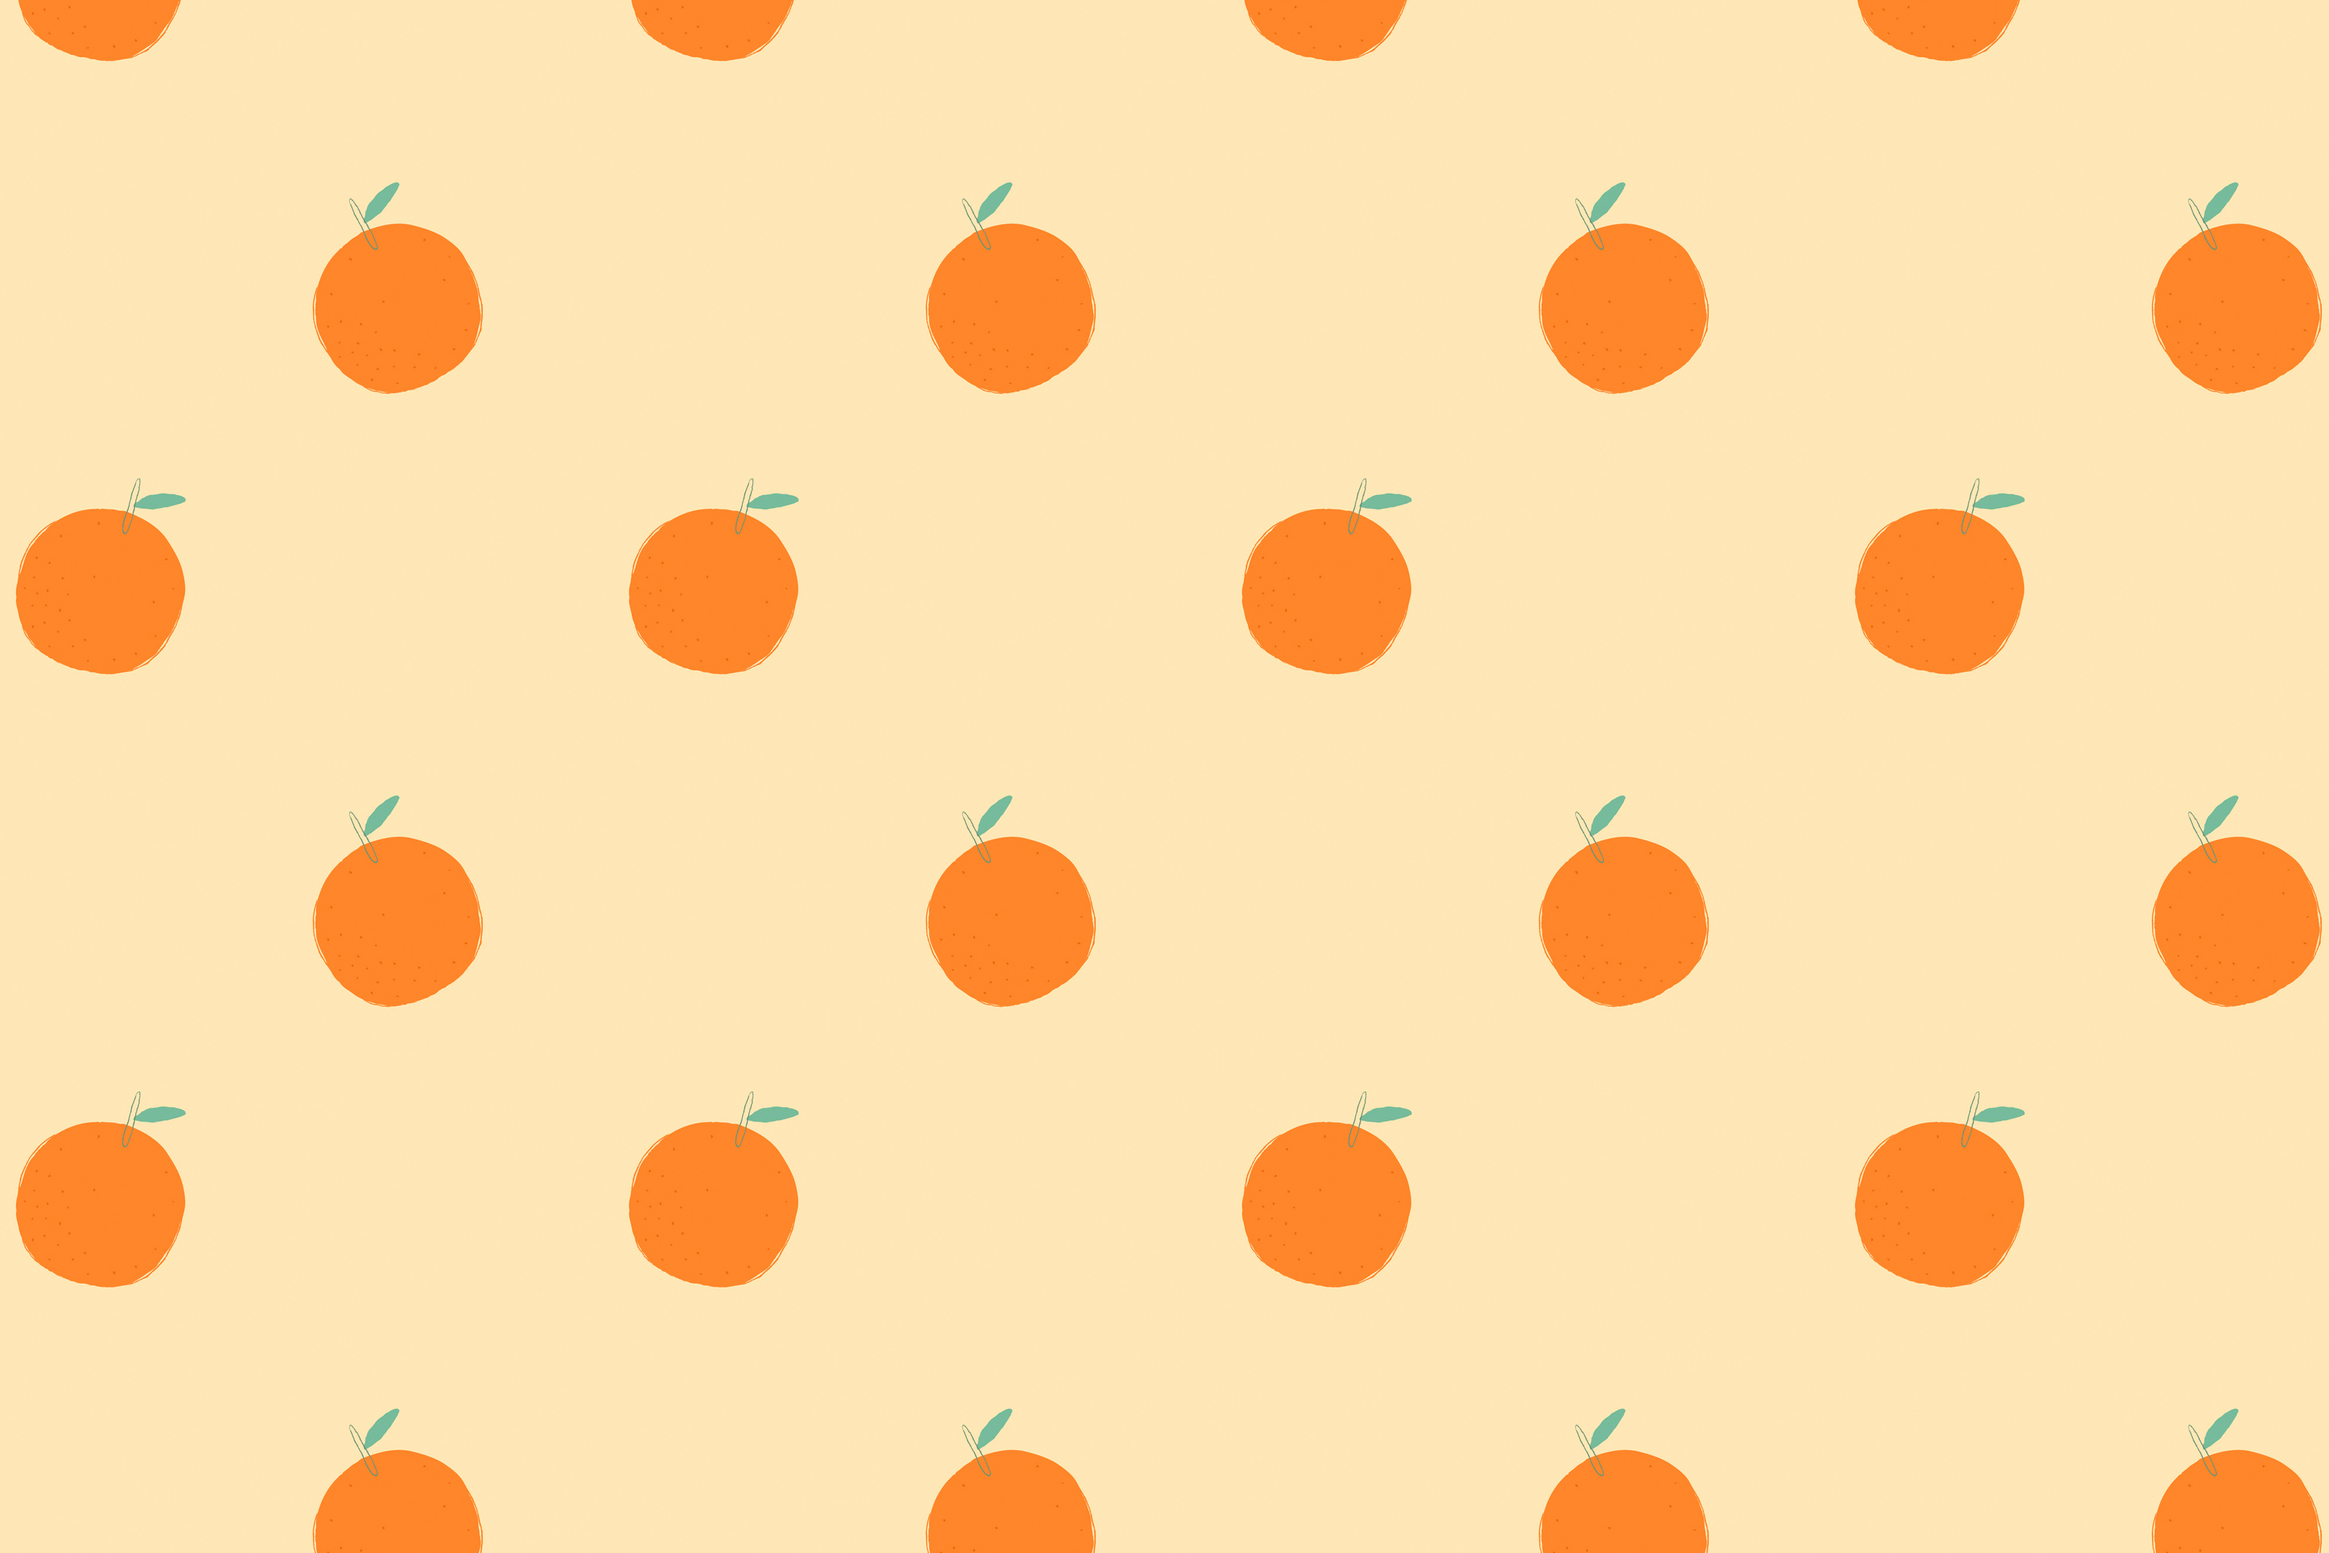
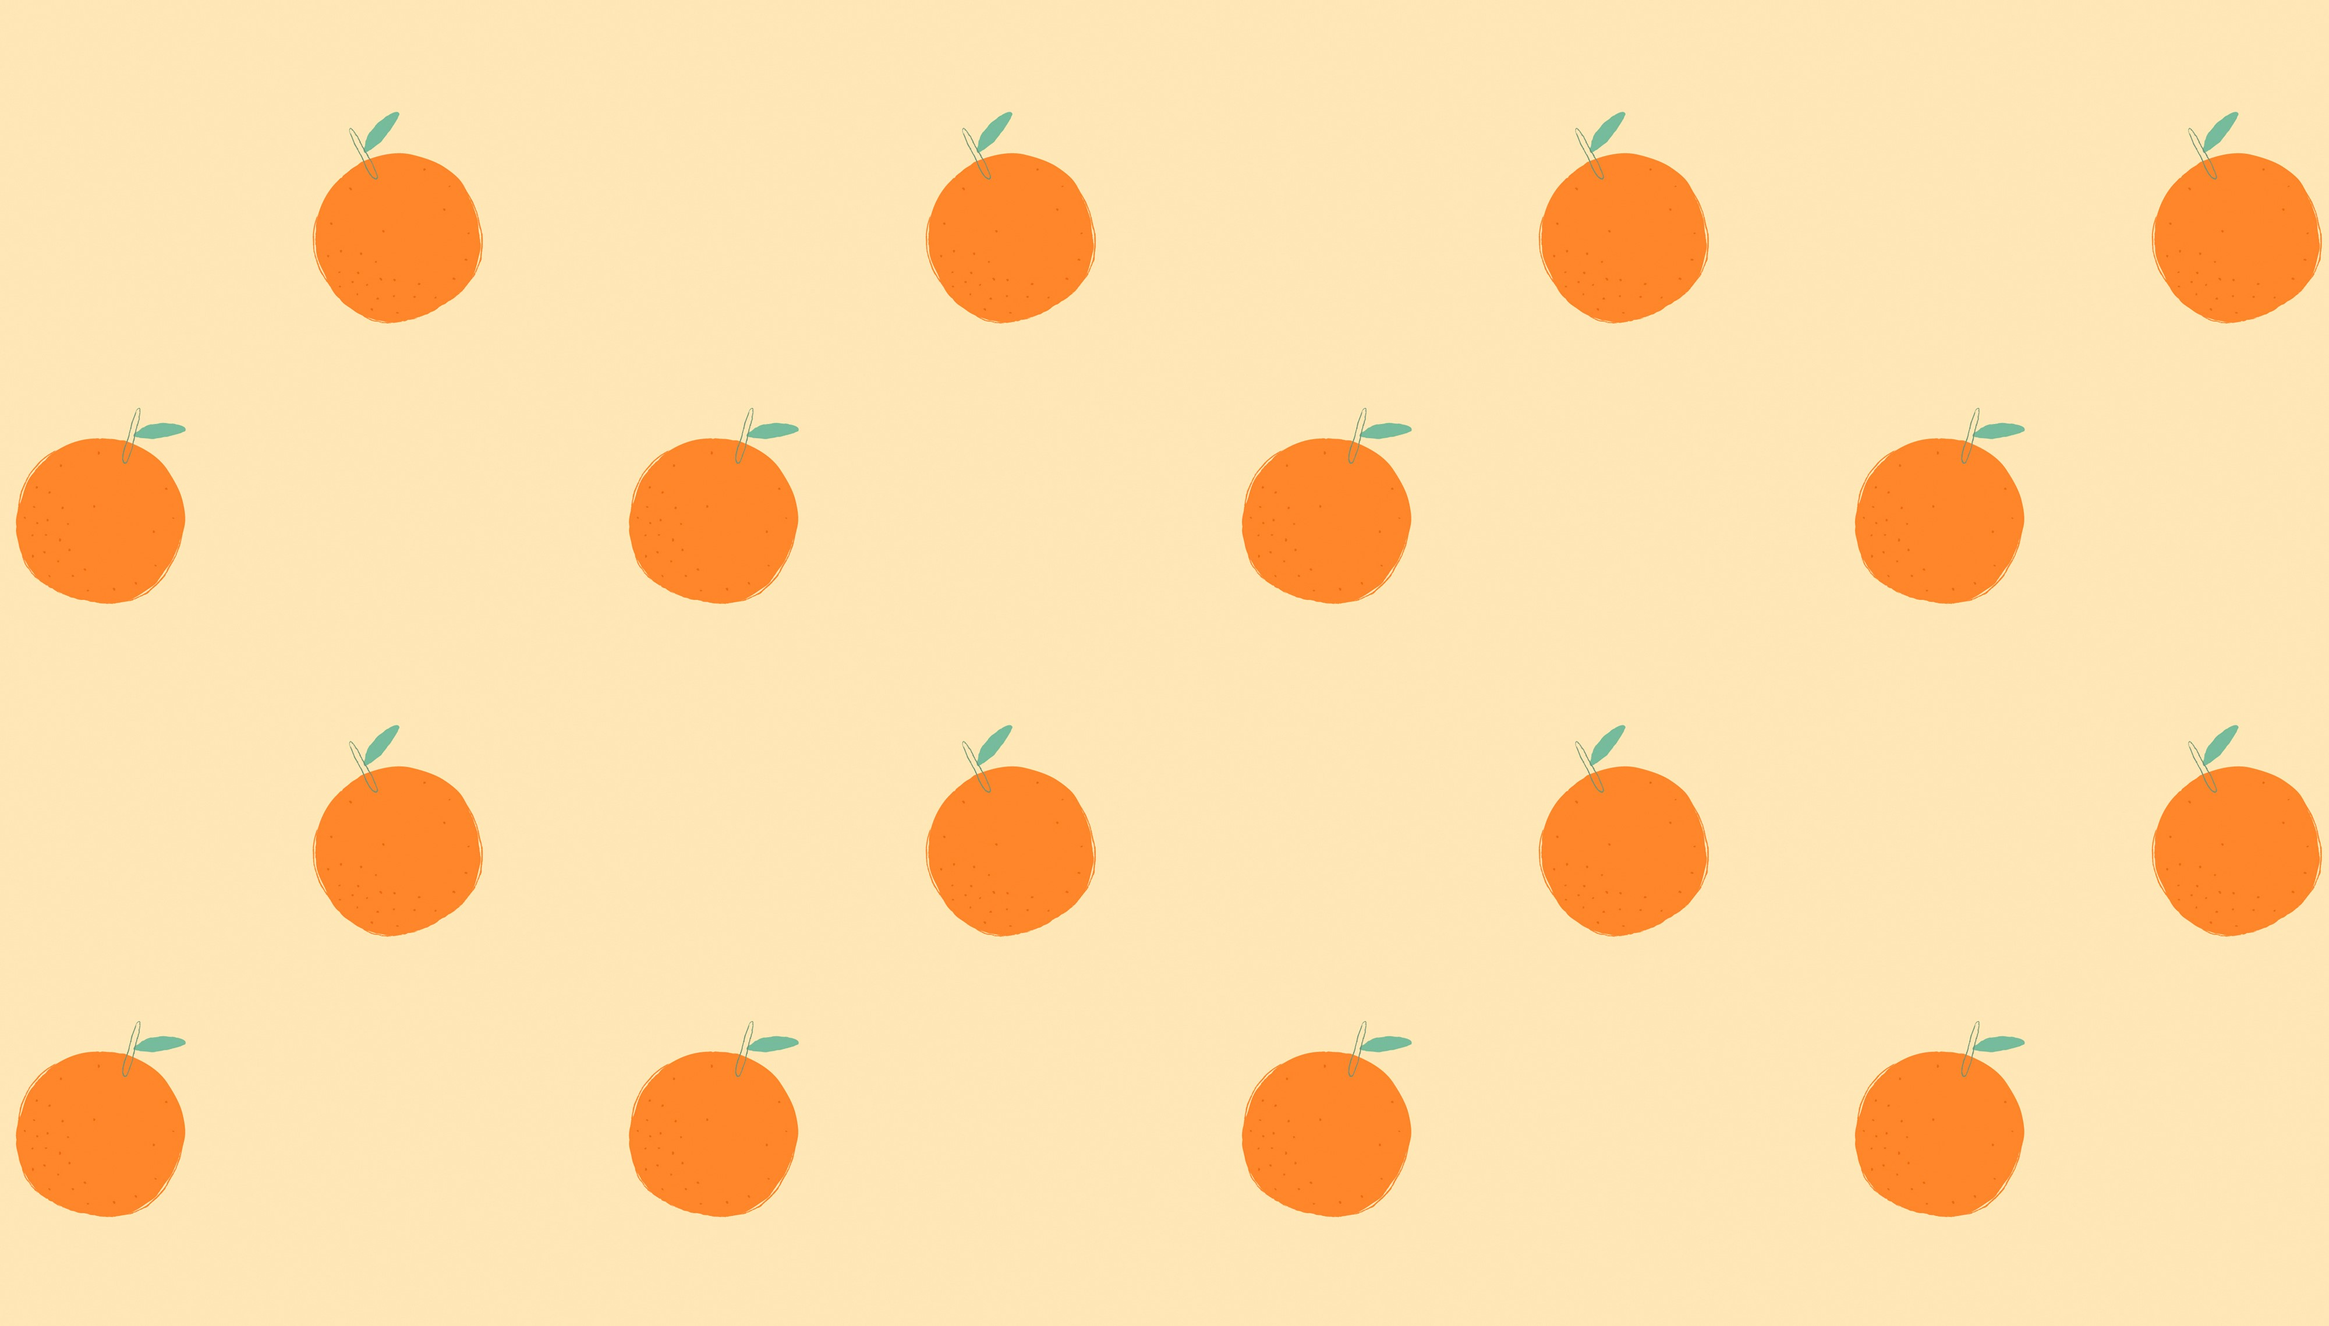
Добавил строку ввода сообщений

diff --git a/css/chat.css b/css/chat.css
@@ -4,13 +4,20 @@
     padding: 0;
 }
 body {
-    height: 1000px;
+    height: 10000px;
+    background-image: url('/imeges/апельсины2.jpg');
+    background-size: 100%;
+    background-repeat: repeat;
+    
+    height: 100%;
+    width: 100%;
 }
 header {
     background-color: #F46E0B;
     height: 70px;
     width: 100%;
-    position: relative;
+    position: fixed;
+    top:0
 }
 
 #Avatar {
@@ -46,33 +53,64 @@ header {
     transform: translate(-50%,-50%);
 }
 
-/* #telephoneNumber {
-    position: absolute;
-    top:50%;
-    right: 60px;
-    transform: translate(0,-50%);
-
+#main {
+    
+}
+footer {
+    position: fixed;
+    bottom: 5px;
+    left: 50%;
+    transform: translateX(-50%);
+   
+    background-color: #ffab61;
+    color: #fff;
+    padding: 10px;
+    border-radius: 20px;
+    border: 3px solid #8ac27a;
+    display: flex;
+}
+#clip {
+    height: 40px;
+    width: 40px; 
+    cursor: pointer; 
+    margin-top: 5px;
+    margin-bottom: 5px;
+}
+#clip:hover  {
+    opacity: 0.8;
+}
+#textMessege {
+    color: black;
     font-family: "Open Sans";
     font-size: 1em;
-    color: #242323;
-}
-#telephoneImg {
-    position: absolute;
-    top:50%;
-    right: 20px;
-    transform: translate(0,-50%);
-
-    height: 30px;
-    width: 30px;
-    
-    margin: 5px 20px;
-} */
-#main {
-    background-image: url('/imeges/апельсины2.jpg');
+    font-weight: 400;
+    border: 0;
+    border-radius: 15px;
    
-    background-repeat: repeat;
-    background-size: 100%;
-    box-sizing: border-box;
-    height: 100%;
+   
+    margin-left: 10px;
+    margin-right: 10px;
+    width: 500px;
+    height: 30px;
+    padding: 15px 20px;
+    overflow: hidden;
+    resize: none;
+}
+#Send { 
+    background-image: none;
+    border: none;
+    padding: 0;
+    cursor: pointer;
+    width: 45px;
+    height: 45px;
+    background-color: transparent;
+    margin-top: 5px;
+    margin-bottom: 5px;
+}
+#Send img {
     width: 100%;
+    height: 100%;
+}
+#Send:hover img {
+    opacity: 0.6;
 }

diff --git a/chat.html b/chat.html
@@ -15,12 +15,17 @@
             <img onmousedown="return false" id="Avatar" src="imeges/капи1.jpg" alt="Avatar">
             <span id = "Nickname">Никнейм</span>
             <span id = "nameCopmapy">CapyChat</span>
-            <!-- <span id = "telephoneNumber">+7 (923) 246 15 19</span>
-            <img onmousedown="return false" id="telephoneImg" src="imeges/free-icon-phone-call-5585856.png"> -->
         </header>
         <main id = "main">
-            
+
         </main>
-        <!-- <script src="js/regist.js"></script> -->
+        <footer>
+            <img onmousedown="return false" id="clip" src="imeges/скрепка.png" alt="Avatar">
+            <textarea id="textMessege" oninput="autiResize(this)"></textarea>
+            <button id="Send" type="submit">
+                <img onmousedown="return false" src="imeges/send1.png">
+            </button>
+        </footer>
+        <script src="js/chat.js"></script>
     </body>
 </html>

diff --git a/js/chat.js b/js/chat.js
@@ -1,0 +1,5 @@
+function autiResize(textarea) {
+    textarea.style.height ='auto';
+    textarea.style.height = textarea.scrollHeight -50 +'px'
+}
+
